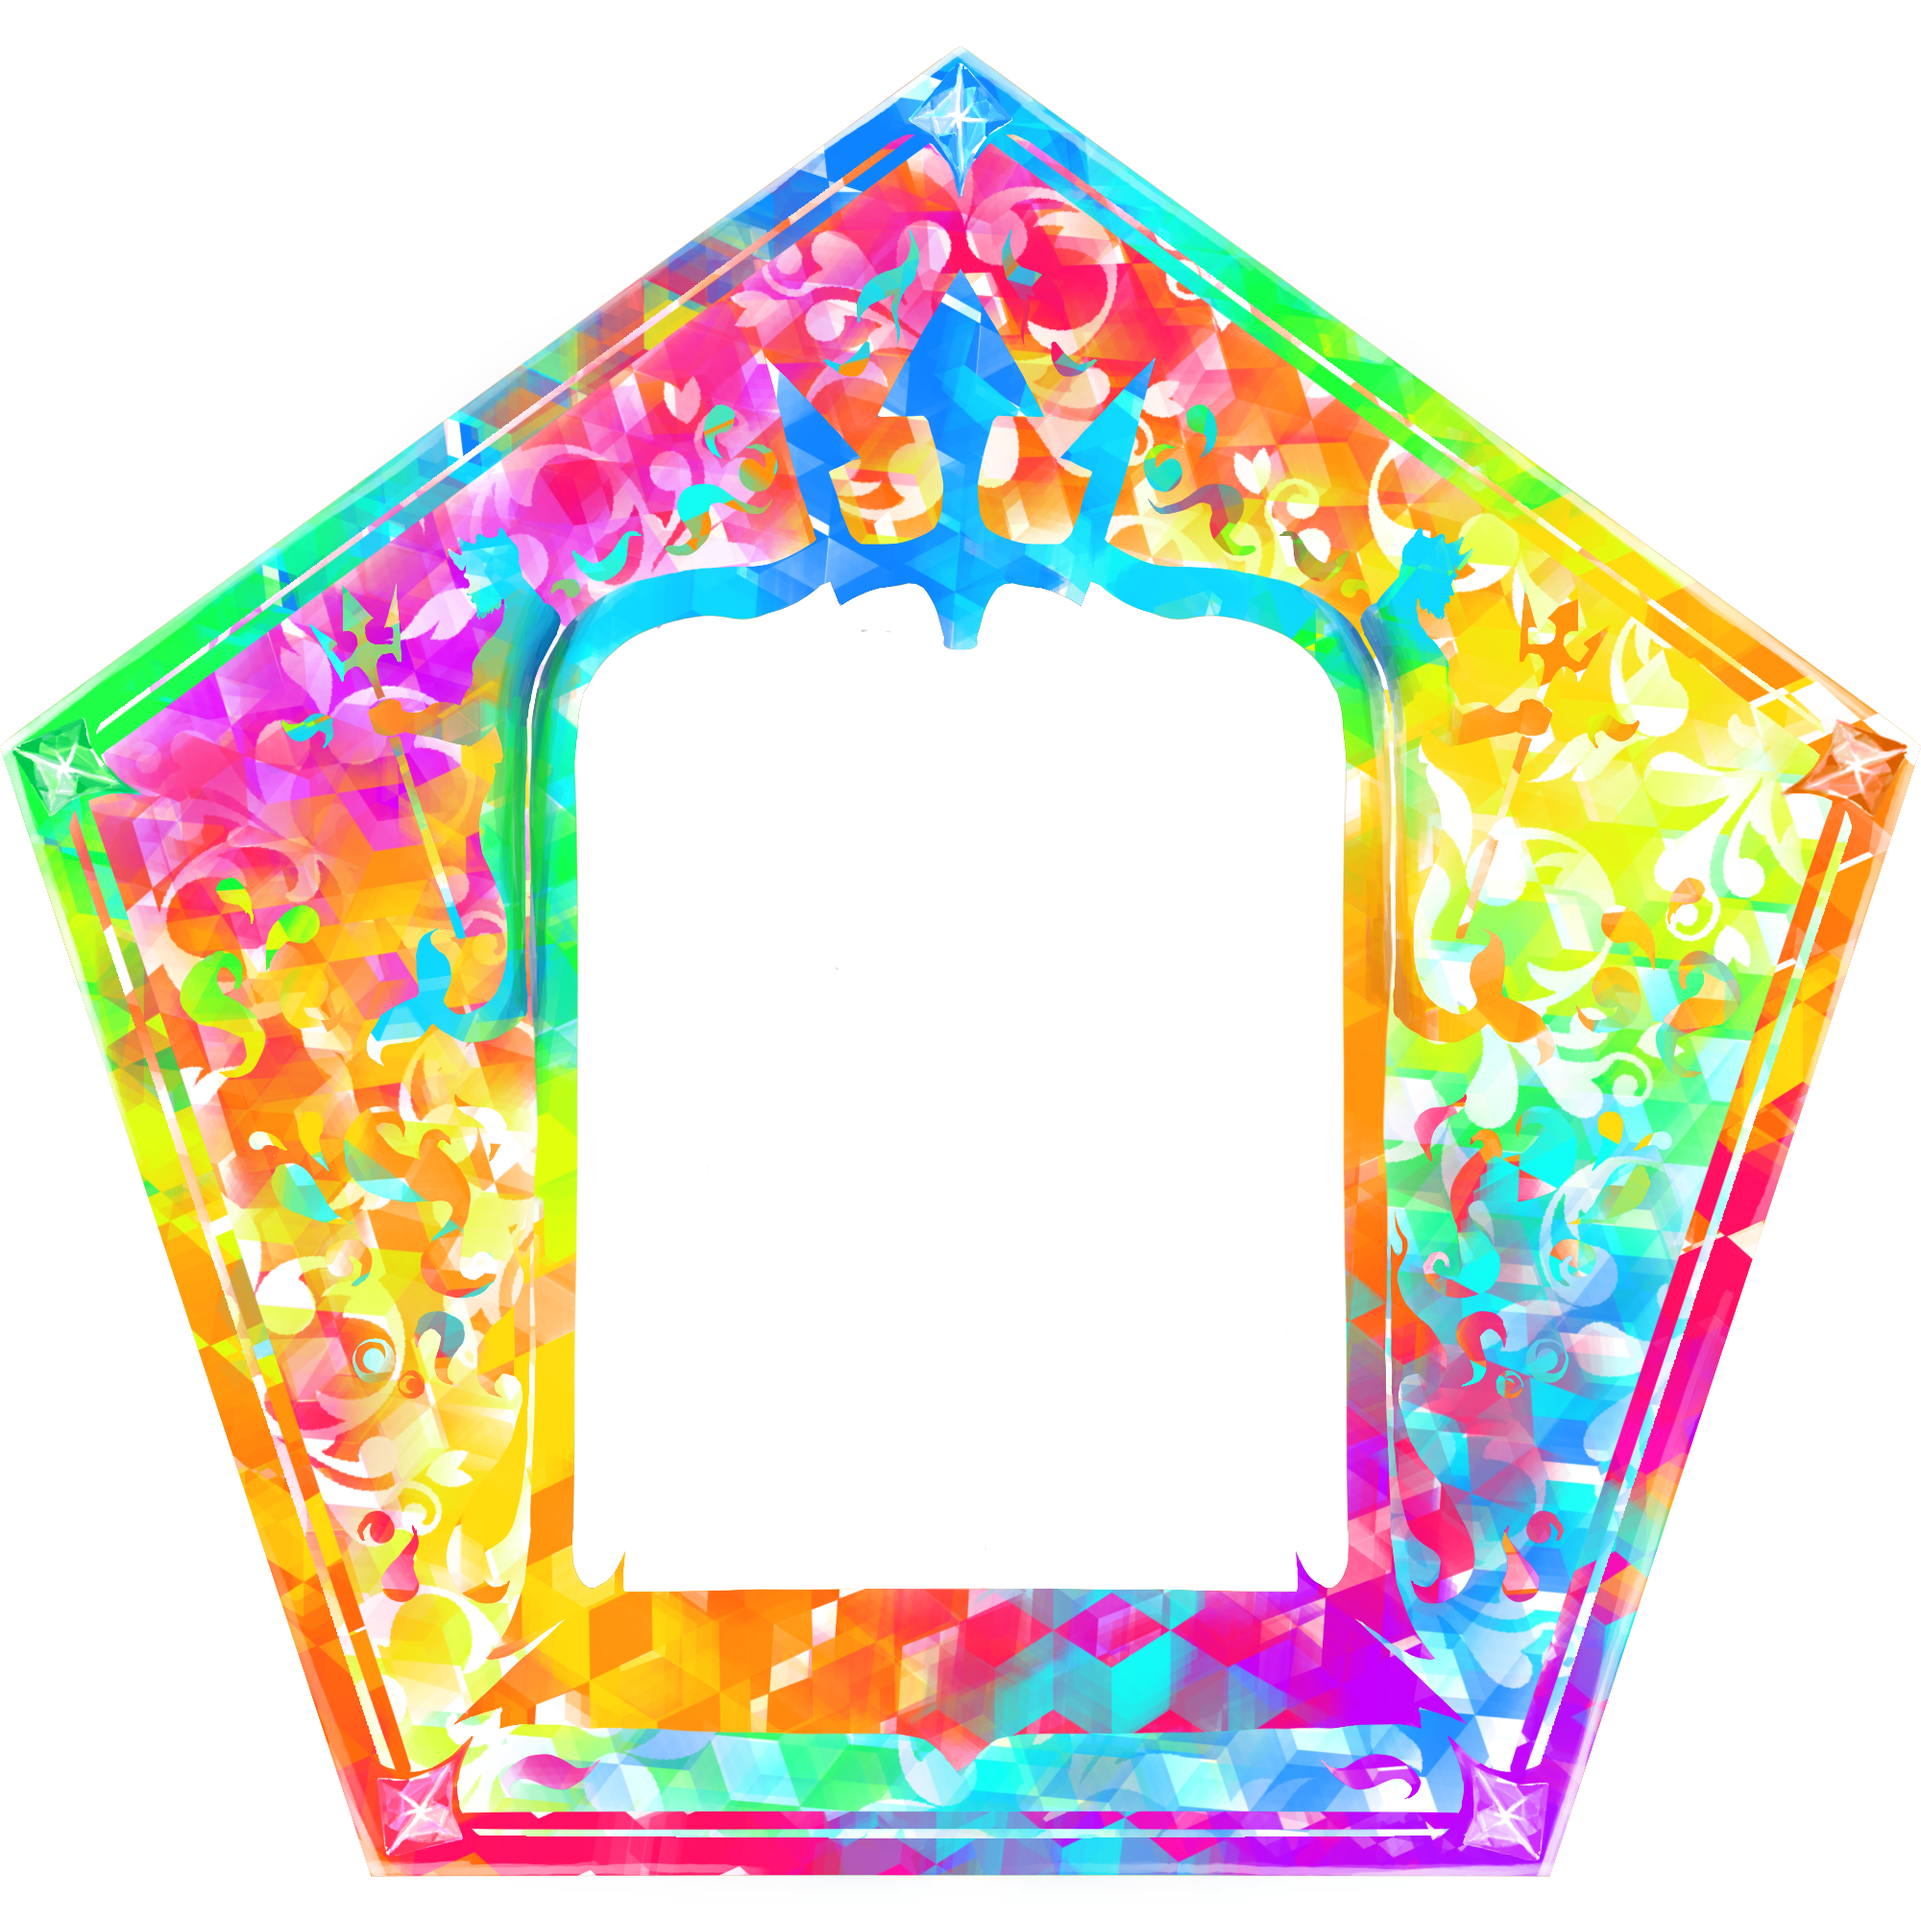
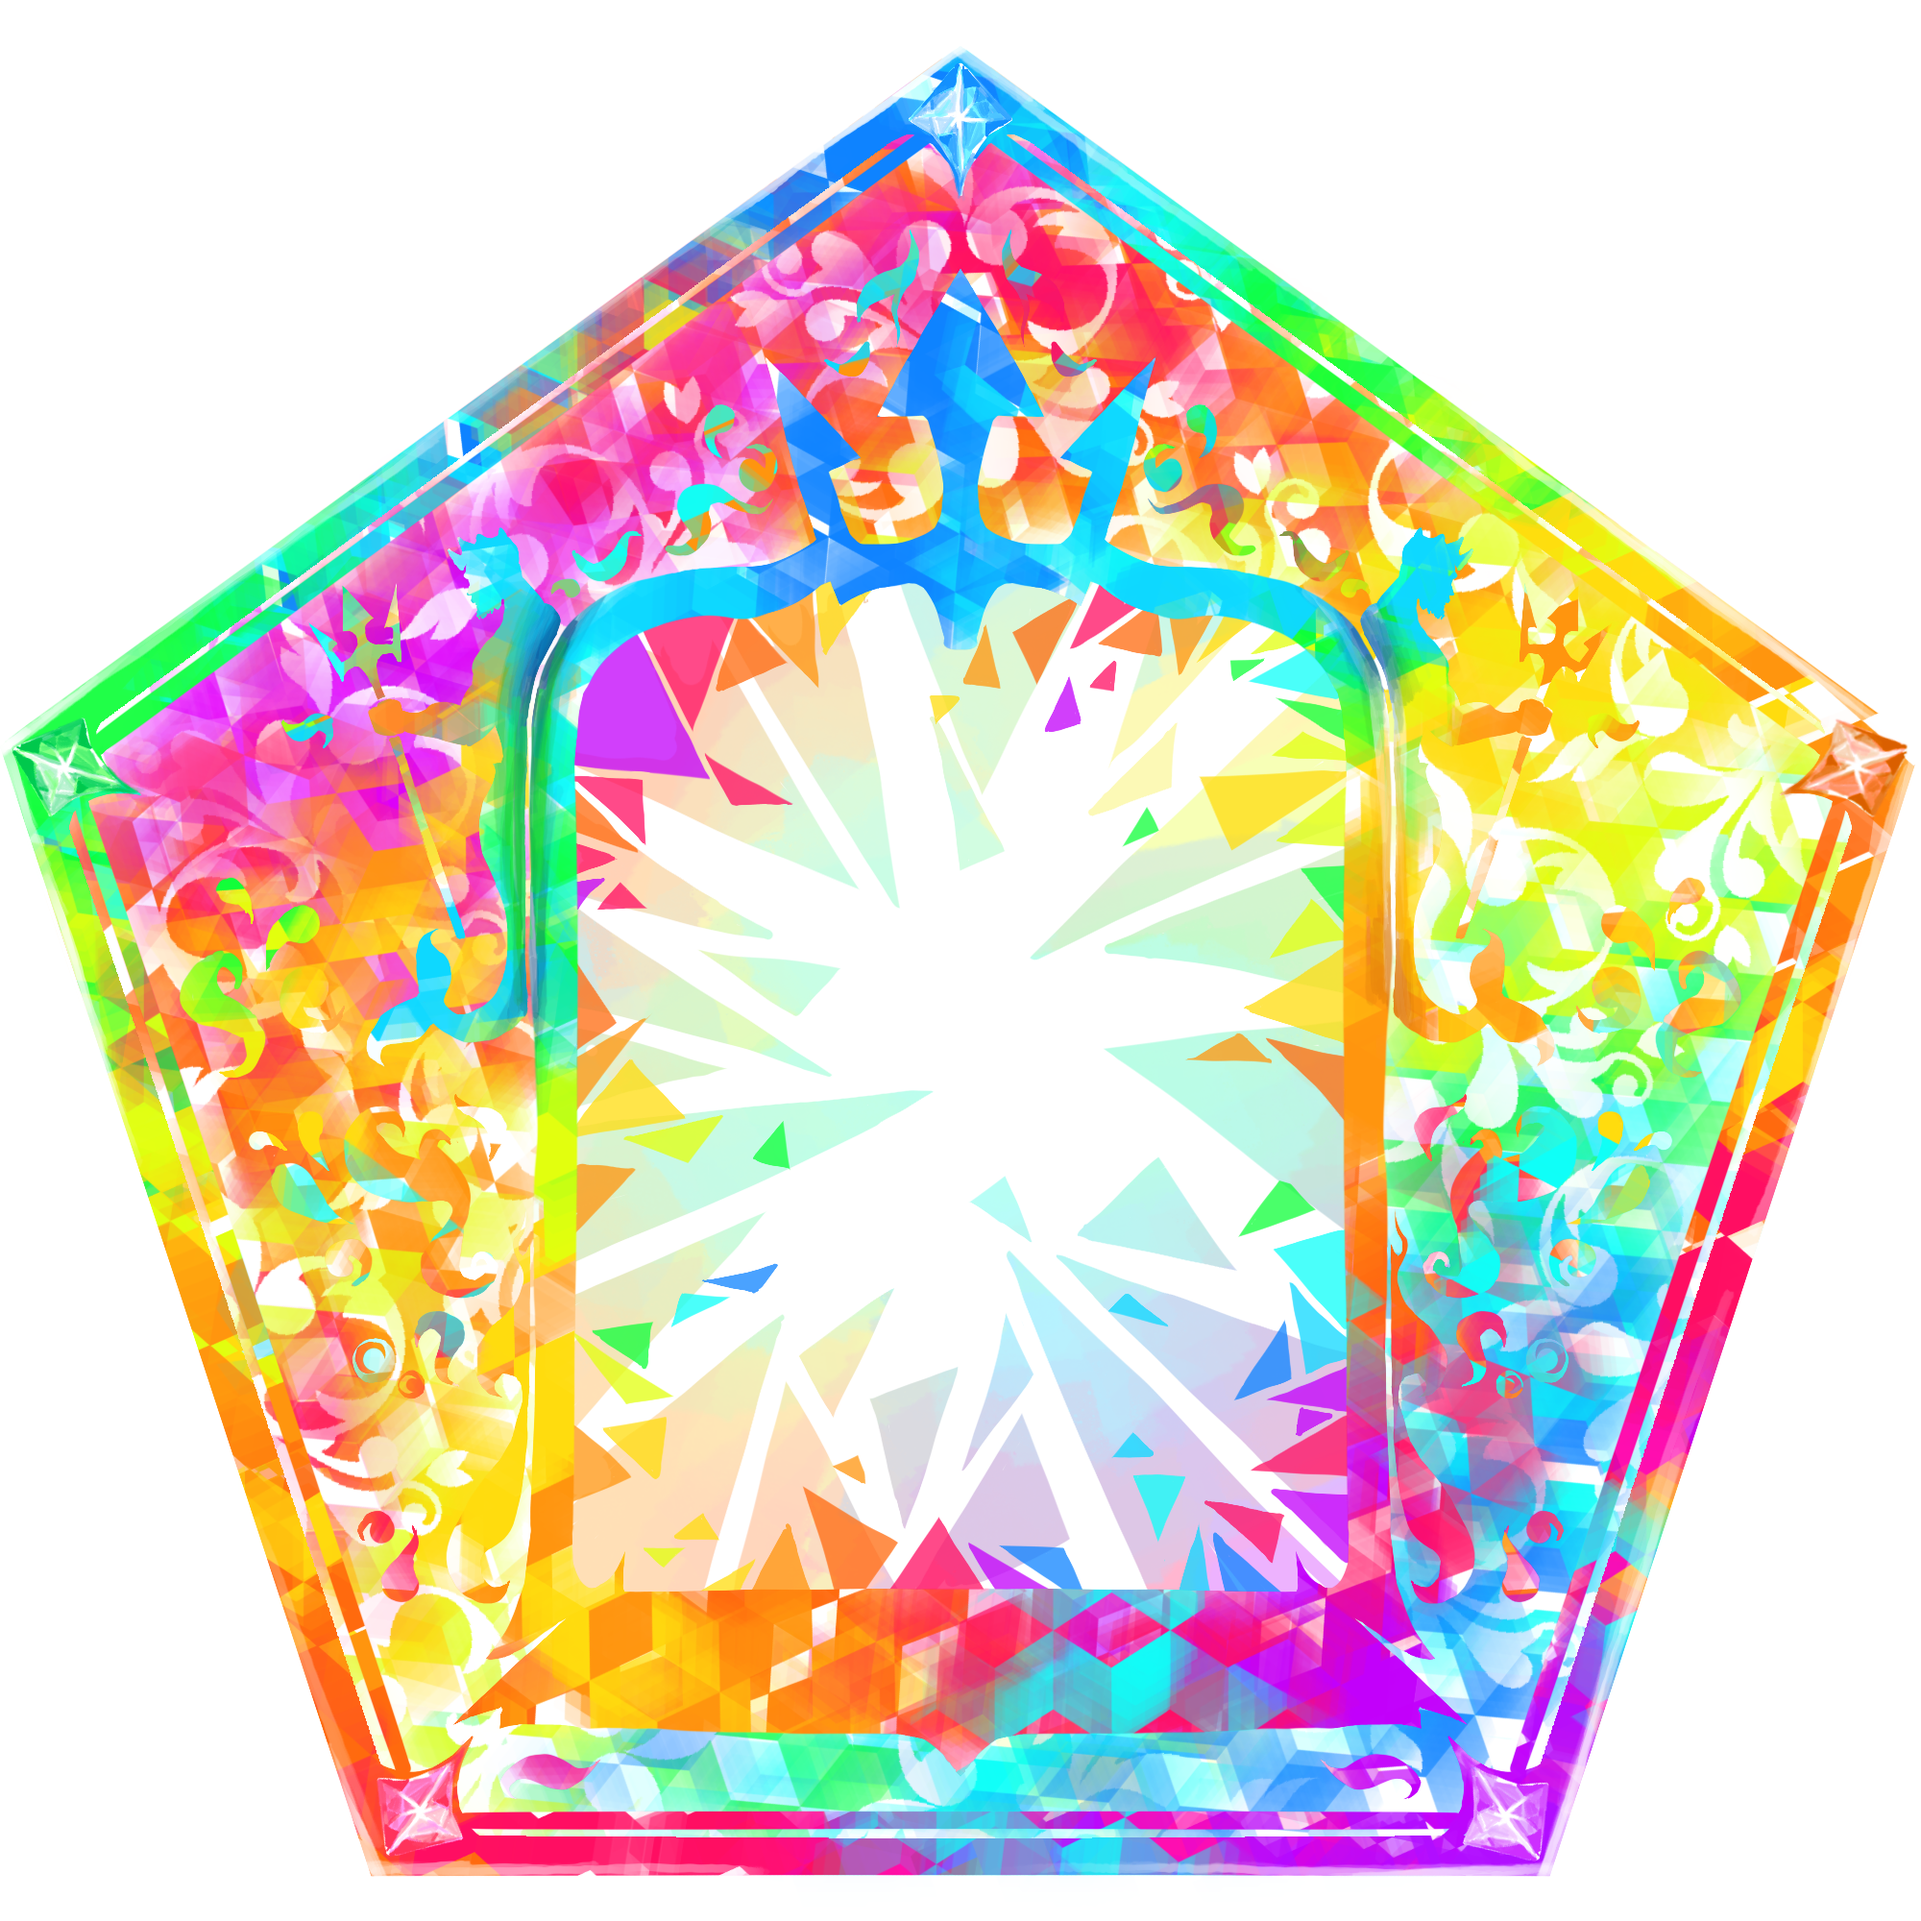
update card text color and change legendary card image

Changed region(s): [[0.279, 0.279, 0.713, 0.837]]

diff --git a/components/frog-card.js b/components/frog-card.js
@@ -131,7 +131,7 @@ class FrogCard extends HTMLElement {
 		const card = this.shadowRoot.querySelector('card');
 
 		if (data.rarity === "legendary") {
-			this.style.setProperty('--name-color', '#FFFFFF'); // ucsd blue
+			this.style.setProperty('--name-color', '#003057'); // ucsd blue
 			this.style.setProperty('--text-color', '#003057'); // ucsd blue
 		} else {
 			this.style.setProperty('--name-color', '#003057'); // ucsd blue
